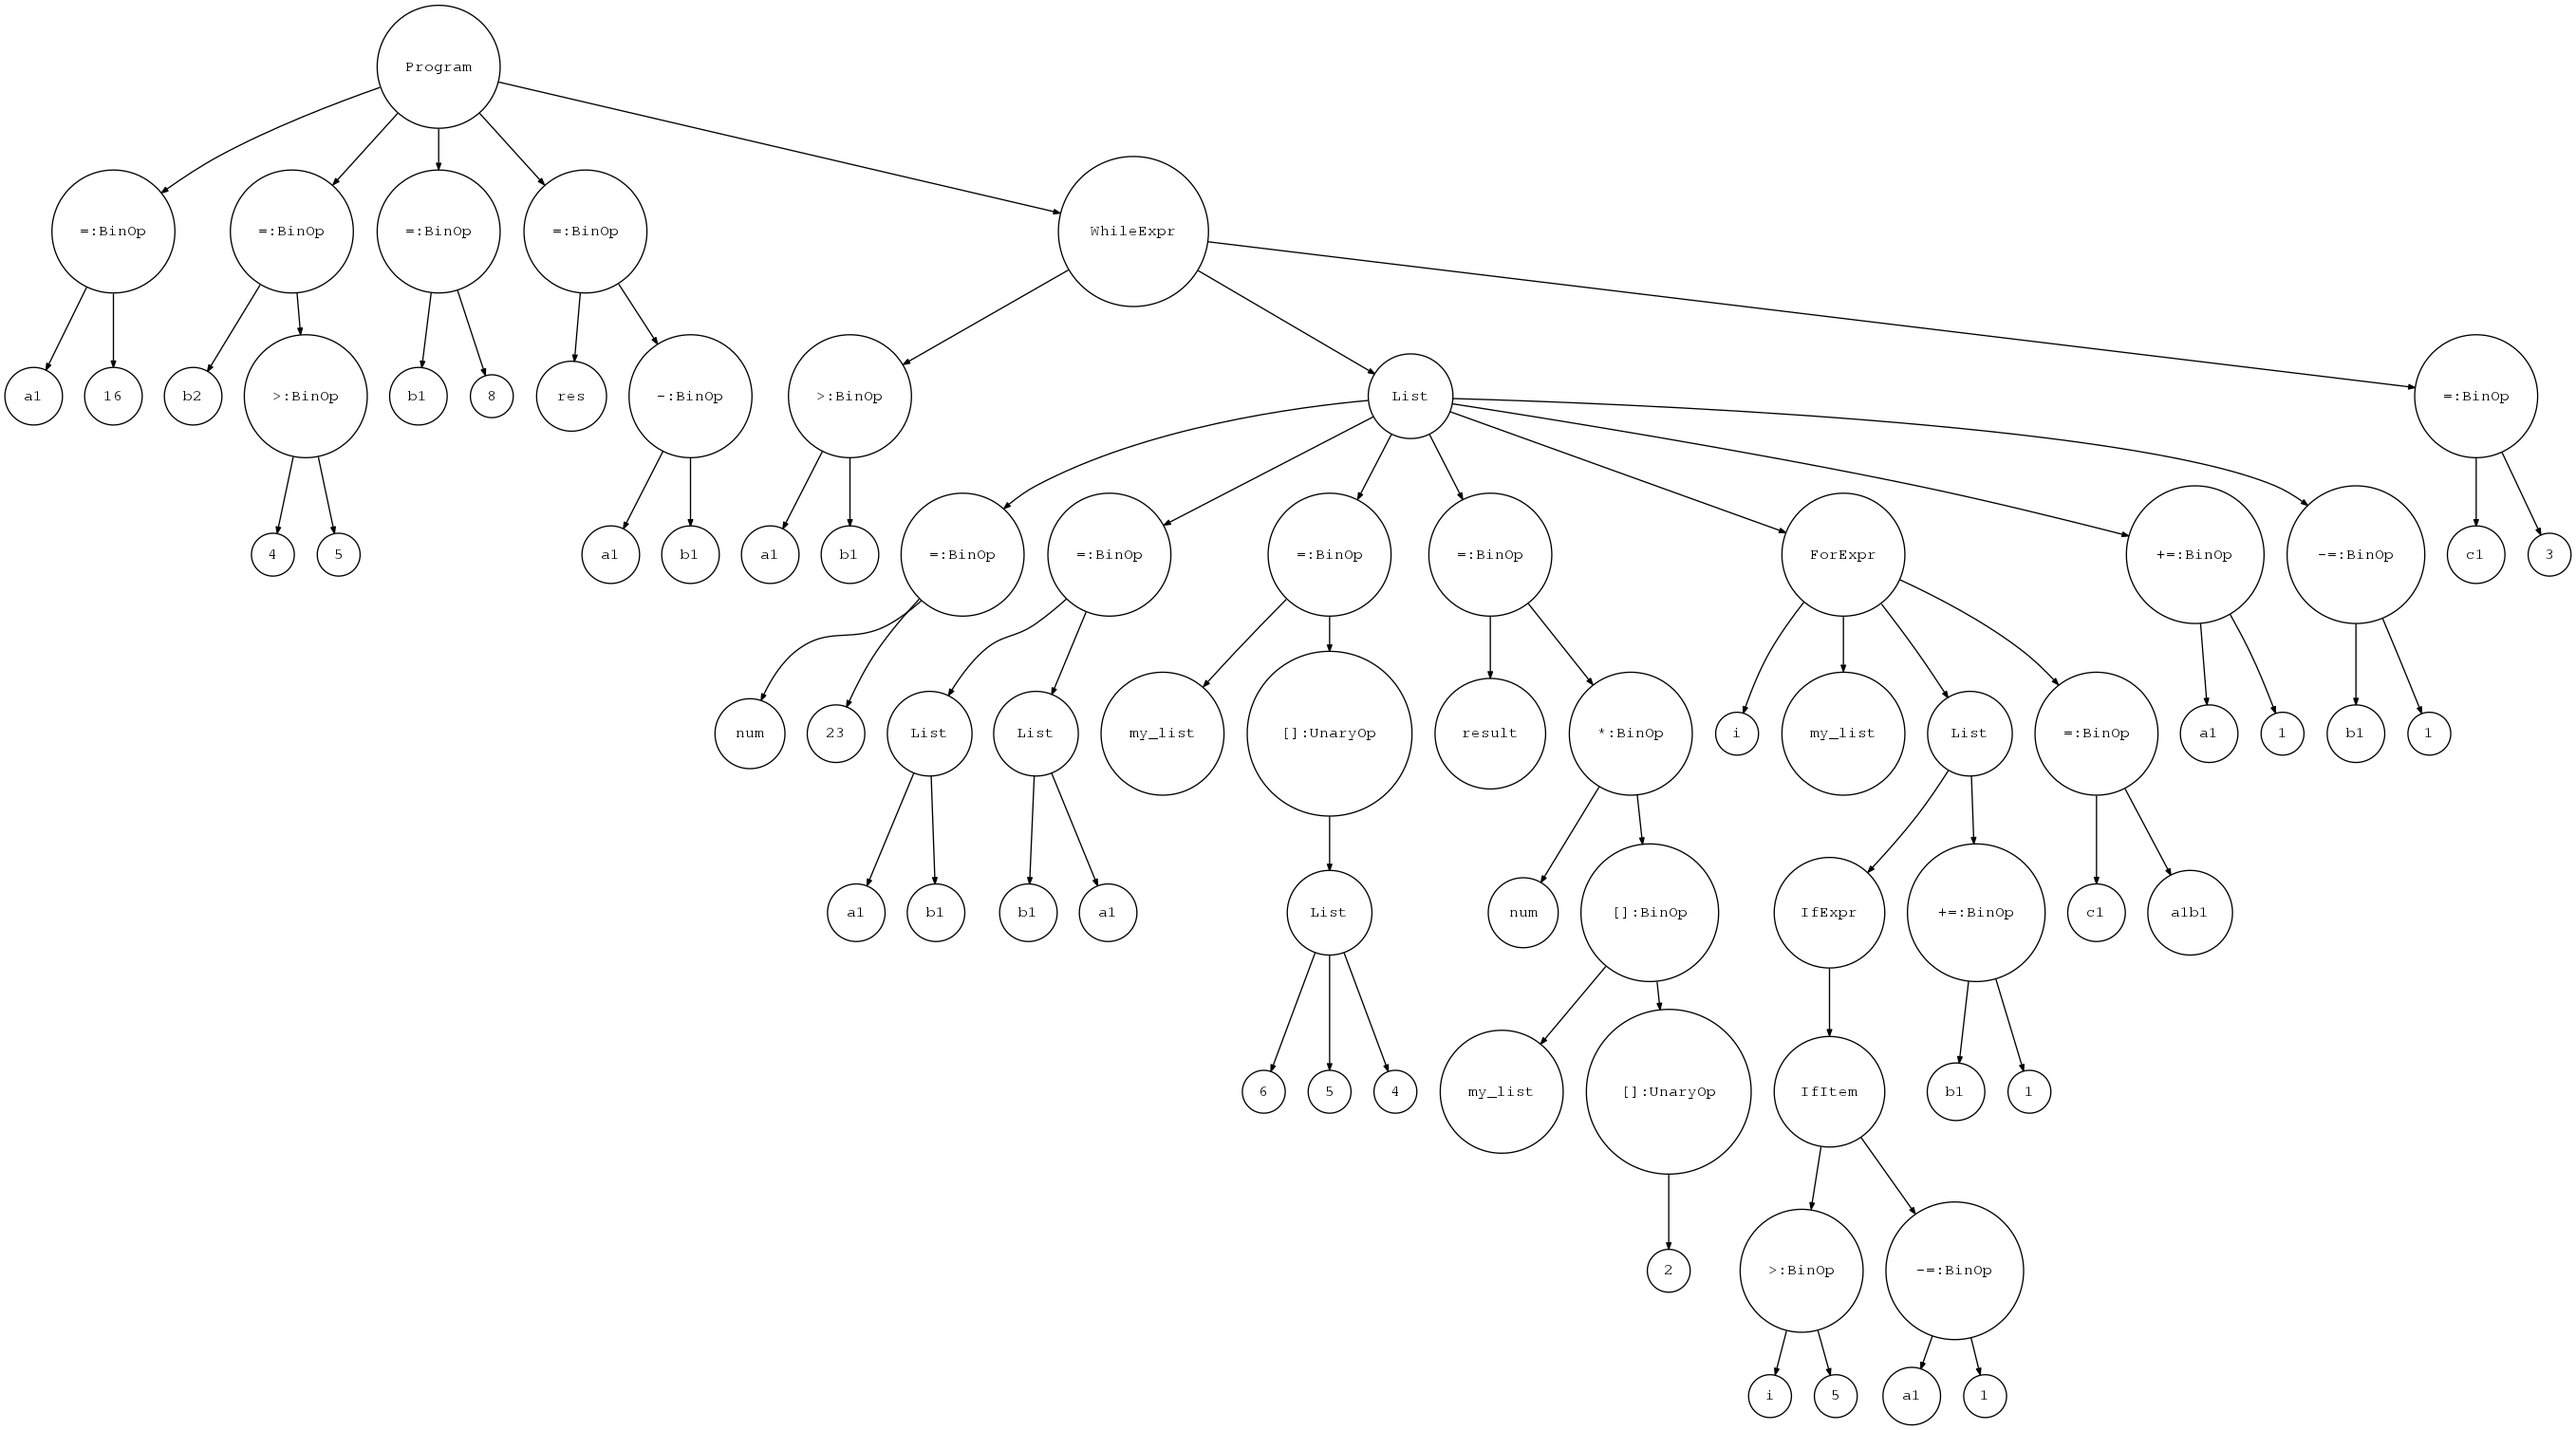
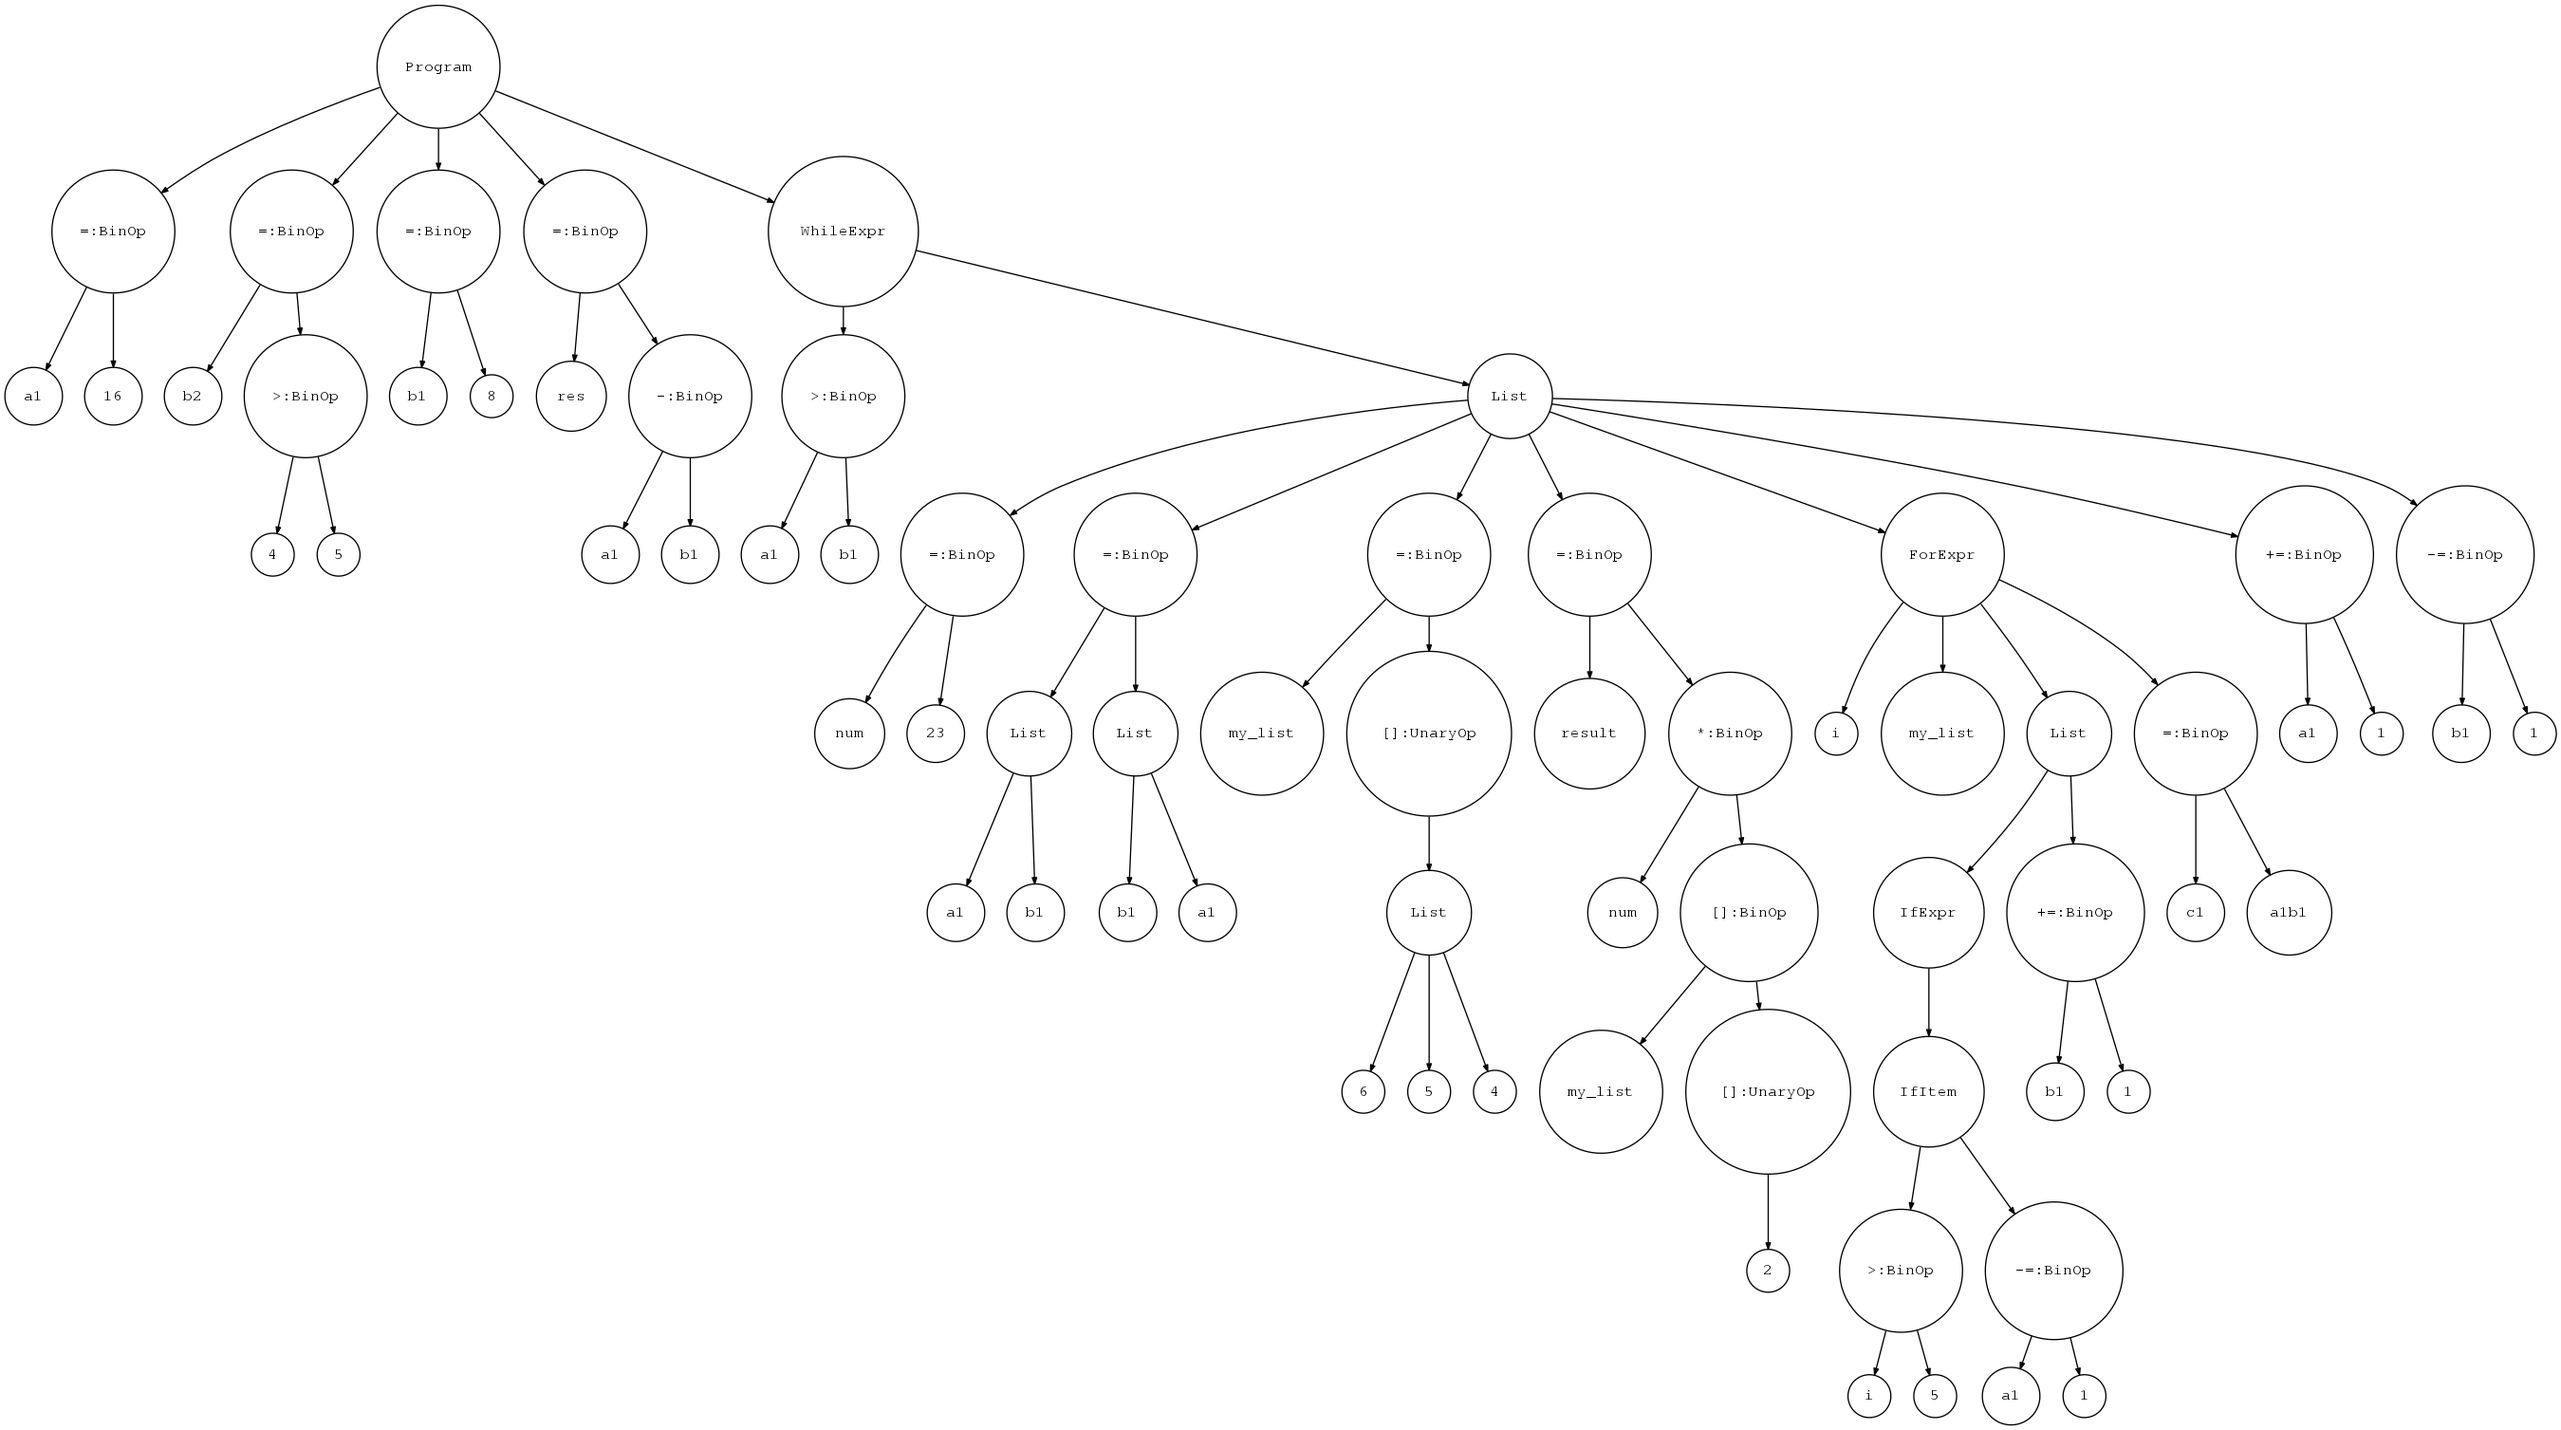
优化while-else

diff --git a/parser.py b/parser.py
@@ -643,7 +643,11 @@ class Parser(object):
         if self.current_token.type == ELSE:
             self.eat(ELSE)
             self.eat(COLON)
-            root.other = self.suite()
+            other = self.suite()
+            for token in root.stmt.tokens:
+                if type(token).__name__ == 'IfExpr':
+                    root.other = other
+                    break
         return root
 
     def exprlist(self):
